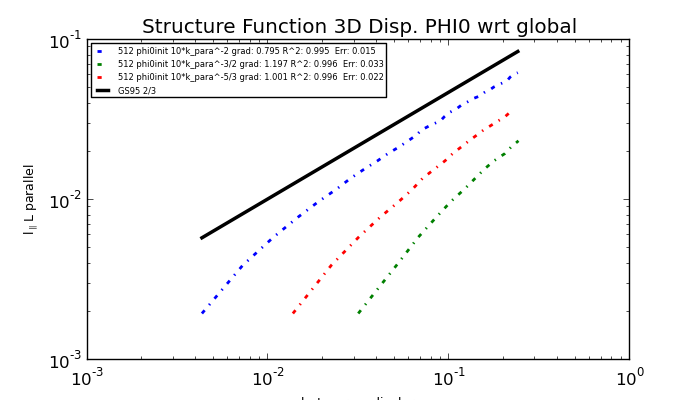
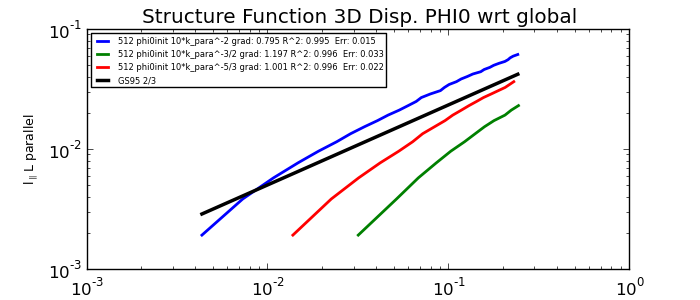
512 phi0linfit

diff --git a/Code_Analysis/plot_sf.py b/Code_Analysis/plot_sf.py
@@ -65,8 +65,8 @@ def find_indeix(arr): #normally pass through the perp array: lperp
 
 perp_arr,para_arr = [], []
 
-def linfit(perp_arr, para_arr, count):
-  slope, intercept, rval, p, err = linregress(np.log(perp_arr[:count]), np.log(para_arr[:count]))
+def linfit(perp_arr, para_arr, start, end):
+  slope, intercept, rval, p, err = linregress(np.log(perp_arr[start:end]), np.log(para_arr[start:end]))
   tmp_slop = round(slope,3)
   tmp_r = round(rval,3)
   tmp_err = round(err,3)
@@ -165,7 +165,7 @@ def linfit(perp_arr, para_arr, count):
 # reading final data
 #-------------------------------------------------------------------------------------------------------------
 
-working_dir_path = '/lustre/fs23/group/that/jonas/Github_repo/DESY/'#'/home/jonas/Documents/VSCode/DESY/'
+working_dir_path = '/home/jonas/Documents/VSCode/DESY/'#'/lustre/fs23/group/that/jonas/Github_repo/DESY/'#
 
 # 2d
 
@@ -292,12 +292,12 @@ dir_sf = working_dir_path + 'phi0init/Runs/512_test/sf_par_perp_v_phi0_wrt_globa
 lpar29, lperp29 = read_sf(dir_sf, 512.0)
 
 #phi0 wrt global 512 test -1.5
-dir_sf = working_dir_path + 'phi0init/Runs/512_3_2/sf_par_perp_v_phi0_wrt_global_10_kparaF.txt'
-lpar30, lperp30 = read_sf(dir_sf, 512.0)
+#dir_sf = working_dir_path + 'phi0init/Runs/512_3_2/sf_par_perp_v_phi0_wrt_global_10_kparaF.txt'
+#lpar30, lperp30 = read_sf(dir_sf, 512.0)
 
 #phi0 wrt global 512 test -5/3
-dir_sf = working_dir_path + 'phi0init/Runs/512_5_3/sf_par_perp_v_phi0_wrt_global_10_kparaF.txt'
-lpar31, lperp31 = read_sf(dir_sf, 512.0)
+#dir_sf = working_dir_path + 'phi0init/Runs/512_5_3/sf_par_perp_v_phi0_wrt_global_10_kparaF.txt'
+#lpar31, lperp31 = read_sf(dir_sf, 512.0)
 #--------------------------------------------------------------------------------------------------------------------------------------------
 # Finding index at which sf becomes 0
 #--------------------------------------------------------------------------------------------------------------------------------------------
@@ -422,8 +422,8 @@ count_256_2 = find_indeix(lperp28)
 """
 
 count_512_10_2 = find_indeix(lperp29)
-count_512_10_3_2 = find_indeix(lperp30)
-count_512_10_5_3 = find_indeix(lperp31)
+#count_512_10_3_2 = find_indeix(lperp30)
+#count_512_10_5_3 = find_indeix(lperp31)
 
 #--------------------------------------------------------------------------------------------------------------------------------------------
 # ALL linefitting
@@ -541,11 +541,14 @@ slope_256_test_2, rval_256_2, err_256_2 = linfit(lperp28,lpar28, count_256_2)
 slope_128_phi0init_2, rval_128_phi0init_2, err_128_phi0init_2 = linfit(lperp27,lpar27, count_128__phi0init_2)
 """
 
-slope_512_phi0init_10_2, rval_512_phi0init_10_2, err_512_phi0init_10_2 = linfit(lperp29,lpar29, count_512_10_2)
+slope_512_phi0init_10_2, rval_512_phi0init_10_2, err_512_phi0init_10_2 = linfit(lperp29,lpar29, 0, count_512_10_2)
 
-slope_512_phi0init_10_3_2, rval_512_phi0init_10_3_2, err_512_phi0init_10_3_2 = linfit(lperp30,lpar30, count_512_10_3_2)
+start = 4
+slope_512_phi0init_10_2_lin, rval_512_phi0init_10_2_lin, err_512_phi0init_10_2_lin = linfit(lperp29,lpar29, start, count_512_10_2)
 
-slope_512_phi0init_10_5_3, rval_512_phi0init_10_5_3, err_512_phi0init_10_5_3 = linfit(lperp31,lpar31, count_512_10_5_3)
+#slope_512_phi0init_10_3_2, rval_512_phi0init_10_3_2, err_512_phi0init_10_3_2 = linfit(lperp30,lpar30, 0, count_512_10_3_2)
+
+#slope_512_phi0init_10_5_3, rval_512_phi0init_10_5_3, err_512_phi0init_10_5_3 = linfit(lperp31,lpar31, 0, count_512_10_5_3)
 #--------------------------------------------------------------------------------------------------------------------------------------------
 # 2d squares vs displacement phi PLOT
 #--------------------------------------------------------------------------------------------------------------------------------------------
@@ -646,7 +649,7 @@ plt.show()
 """
 
 #3d fft vs real phi0
-plt.figure(figsize=(5.0, 3.0), dpi=200)
+plt.figure(figsize=(3.0, 2.0), dpi=200)
 gs = gridspec.GridSpec(1, 1, hspace=0.0, wspace=0.0)
 
 ax1 = plt.subplot(gs[0])
@@ -669,11 +672,13 @@ ax1 = plt.subplot(gs[0])
 
 #ax1.plot(lperp26[:count_256_10_2], lpar26[:count_256_10_2], lw=2, ls = "-.", label="256 10*k_para^-2 grad: %s R^2: %s  Err: %s" % (slope_256_test_102, rval_256_102, err_256_102))
 
-ax1.plot(lperp29[:count_512_10_2], lpar29[:count_512_10_2], lw=2, ls = "-.", label="512 phi0init 10*k_para^-2 grad: %s R^2: %s  Err: %s" % (slope_512_phi0init_10_2, rval_512_phi0init_10_2, err_512_phi0init_10_2))
+ax1.scatter(lperp29[0:count_512_10_2], lpar29[0:count_512_10_2], s = 6, marker = '*',) #label="512 phi0init 10*k_para^-2 grad: %s R^2: %s  Err: %s" % (slope_512_phi0init_10_2, rval_512_phi0init_10_2, err_512_phi0init_10_2))
+ax1.plot(lperp29[0:count_512_10_2], lpar29[0:count_512_10_2], lw = 1, label="512 phi0init 10*k_para^-2 grad: %s R^2: %s  Err: %s" % (slope_512_phi0init_10_2, rval_512_phi0init_10_2, err_512_phi0init_10_2))
+ax1.plot(lperp29[start:count_512_10_2], lpar29[start:count_512_10_2], lw=2, ls = "-", color = 'orange', label="512 phi0init 10*k_para^-2 lin grad: %s R^2: %s  Err: %s" % (slope_512_phi0init_10_2_lin, rval_512_phi0init_10_2_lin, err_512_phi0init_10_2_lin))
 
-ax1.plot(lperp30[:count_512_10_3_2], lpar30[:count_512_10_3_2], lw=2, ls = "-.", label="512 phi0init 10*k_para^-3/2 grad: %s R^2: %s  Err: %s" % (slope_512_phi0init_10_3_2, rval_512_phi0init_10_3_2, err_512_phi0init_10_3_2))
+#ax1.plot(lperp30[:count_512_10_3_2], lpar30[:count_512_10_3_2], lw=2, ls = "-.", label="512 phi0init 10*k_para^-3/2 grad: %s R^2: %s  Err: %s" % (slope_512_phi0init_10_3_2, rval_512_phi0init_10_3_2, err_512_phi0init_10_3_2))
 
-ax1.plot(lperp31[:count_512_10_5_3], lpar31[:count_512_10_5_3], lw=2, ls = "-.", label="512 phi0init 10*k_para^-5/3 grad: %s R^2: %s  Err: %s" % (slope_512_phi0init_10_5_3, rval_512_phi0init_10_5_3, err_512_phi0init_10_5_3))
+#ax1.plot(lperp31[:count_512_10_5_3], lpar31[:count_512_10_5_3], lw=2, ls = "-.", label="512 phi0init 10*k_para^-5/3 grad: %s R^2: %s  Err: %s" % (slope_512_phi0init_10_5_3, rval_512_phi0init_10_5_3, err_512_phi0init_10_5_3))
 
 #ax1.plot(lperp27[:count_128__phi0init_2], lpar27[:count_128__phi0init_2], lw=2, ls = "-.", label="128 phi0init -2 grad: %s R^2: %s  Err: %s" % (slope_128_phi0init_2, rval_128_phi0init_2, err_128_phi0init_2))
 
@@ -690,16 +695,17 @@ ax1.plot(lperp31[:count_512_10_5_3], lpar31[:count_512_10_5_3], lw=2, ls = "-.",
 #ax1.plot(lperp22[:count_512_3d_phi0_local], lpar22[:count_512_3d_phi0_local], lw=2, ls = "--",color='orange', label="512 Phi0 local grad: %s R^2: %s  Err: %s" % (slope_512_disp_3d_phi0_local, rval_512_disp_3d_phi0_local, err_512_disp_3d_phi0_local))
 
 #ax1.plot(lperp14[:count_256_3d_f], ref_slope_3d_256_f, lw=2.5, color = "black", ls = "-", label="GS95 2/3")
-ax1.plot(lperp29[:count_512_10_2], 1.5*ref_slope_3d_512_f, lw=2.5, color = "black", ls = "-", label="GS95 2/3")
+ax1.plot(lperp29[:count_512_10_2], 1.2*ref_slope_3d_512_f, lw=2.5, color = "black", ls = "-", label="GS95 2/3")
 #ax1.plot(lperp15[:count_128_3d_f], ref_slope_3d_128_f, lw=2.5, color = "black", ls = "-")
 
 
 ax1.set_xscale('log')
 ax1.set_yscale('log')
+ax1.set_ylim(0.001, 0.1)
 ax1.set_xlabel(r'$l_{\perp}/ L $ perpendicular',fontsize=9)
 ax1.set_ylabel(r'$l_{\parallel}/L $ parallel',fontsize=9)
 ax1.set_title('Structure Function 3D Disp. PHI0 wrt global')
-ax1.legend(loc='lower right',ncol=1,fontsize=6)
+ax1.legend(loc='upper left',ncol=1,fontsize=6)
 
 plt.show()
 
